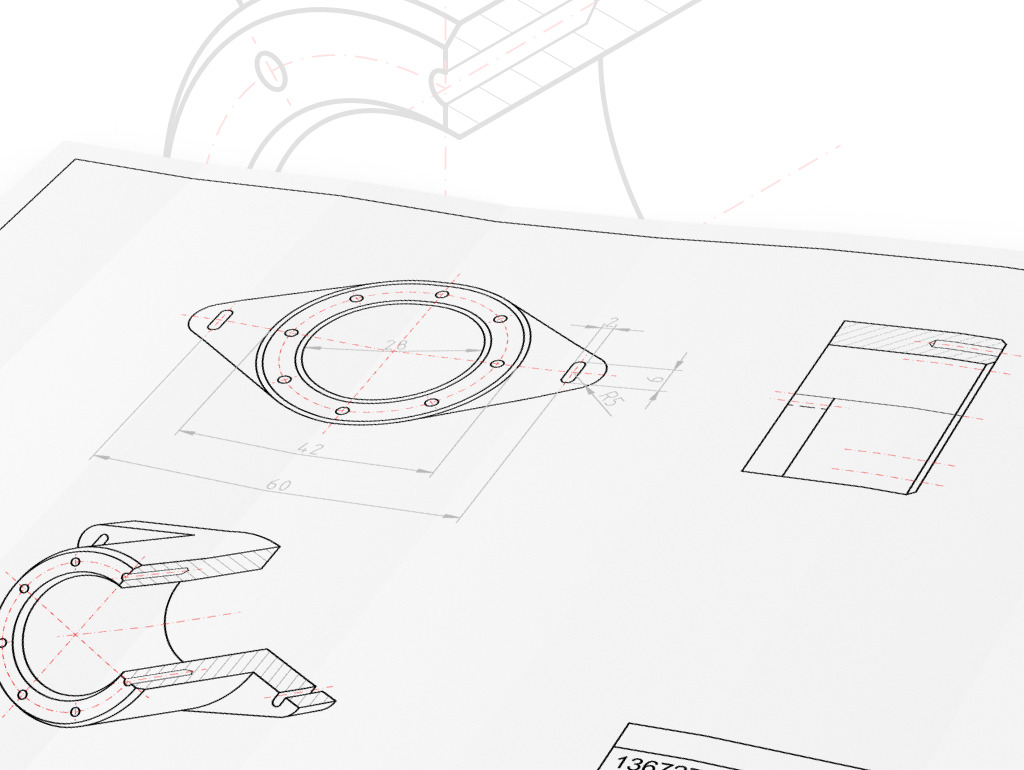
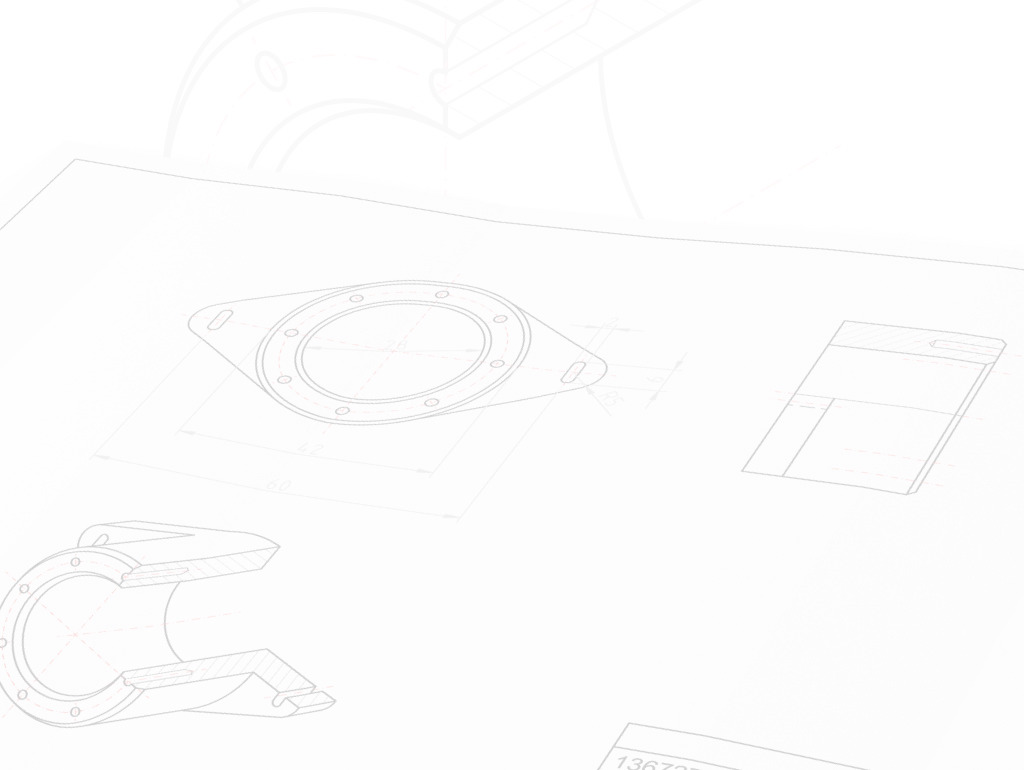
fix first start dialog on dark mode

diff --git a/scripts/Widgets/FirstStart/FirstStart.js b/scripts/Widgets/FirstStart/FirstStart.js
@@ -35,9 +35,16 @@ FirstStart.prototype.showDialog = function() {
     var pathFi = new QFileInfo(this.path);
     this.dialog.windowTitle = qsTr("%1 First Start").arg(qApp.applicationName);
     if (qApp.applicationName.contains("QCAD")) {
-        this.dialog.styleSheet =
-             "QDialog { border-image: url(" + pathFi.absoluteFilePath() + "/firststart.jpg) 0 0 0 0 stretch stretch; border-width: 0px; }";
-            //"QDialog{ background-image: url(" + pathFi.absoluteFilePath() + "/firststart.png) }";
+        if (RSettings.hasDarkGuiBackground()) {
+            this.dialog.styleSheet =
+                 "QDialog { border-image: url(" + pathFi.absoluteFilePath() + "/firststart-inverse.jpg) 0 0 0 0 stretch stretch; border-width: 0px; }";
+        }
+        else {
+            this.dialog.styleSheet =
+                 "QDialog { border-image: url(" + pathFi.absoluteFilePath() + "/firststart.jpg) 0 0 0 0 stretch stretch; border-width: 0px; }";
+                //"QDialog{ background-image: url(" + pathFi.absoluteFilePath() + "/firststart.png) }";
+        }
+
     }
     else {
         this.dialog.findChild("LanguageBackground").styleSheet = "";
